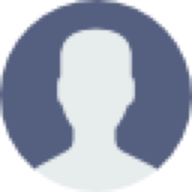
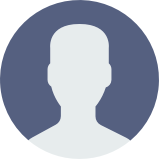
Added content for More Screen. Added LogOut method for user.

diff --git a/src/containers/more/MoreScreenContainer.js b/src/containers/more/MoreScreenContainer.js
@@ -1,15 +1,17 @@
 import React, { Component } from 'react';
-import { View, Text } from 'react-native';
+import { View, Text, ScrollView, Image } from 'react-native';
 import PropTypes from 'prop-types';
 import { connect } from 'react-redux';
-import _ from 'lodash';
+import { goToAuthScreen } from 'root';
 
 import { authActions } from 'actions';
-import { authSelector } from 'selectors';
+import { userSelector } from 'selectors';
+import { Button } from 'components/tools';
 
-import MoreComponent from 'components/more/MoreComponent';
-import { NAVIGATION_STYLES_MAIN } from 'constants/UIStyles';
-import { MORE_SCREEN_TITLE } from 'constants/texts';
+import { NAVIGATION_STYLES_MAIN, TextStyle } from 'constants/UIStyles';
+import { LOG_OUT_BUTTON } from 'constants/commons';
+
+import Styles from './styles';
 
 class MoreScreenContainer extends Component {
 
@@ -18,18 +20,42 @@ class MoreScreenContainer extends Component {
 
     this.state = {
     };
-  }
 
-  componentWillMount() {
-    // this.props.dispatch(authActions.getAreas());
+    this.logOutUser = this.logOutUser.bind(this);
   }
 
   render() {
+    const { user } = this.props;
     return (
-      <MoreComponent
-        screenTitle={MORE_SCREEN_TITLE}
-      />
+      <View style={{ flex: 1 }}>
+        <ScrollView contentContainerStyle={Styles.content}>
+          <View style={Styles.header}>
+            <Image
+              source={user.photo ? { uri: user.photo } : require('images/user.png')}
+              initWidth="120"
+              initHeight="120"
+              style={{ width: 120, height: 120, borderRadius: 120 / 2 }}
+            />
+          </View>
+          <View style={Styles.body}>
+            <Text style={TextStyle.title3}>{user.first_name} {user.last_name}</Text>
+            <Text style={TextStyle.headLine}>{user.email}</Text>
+            {user.chosenOffers && <Text style={TextStyle.body}>Chosen offers: {user.chosenOffers.length}</Text>}
+          </View>
+        </ScrollView>
+        <Button.CustomButton
+          button={LOG_OUT_BUTTON}
+          onPress={this.logOutUser}
+        />
+      </View>
     );
+  }
+
+  logOutUser() {
+    const { dispatch } = this.props;
+
+    goToAuthScreen();
+    dispatch(authActions.logout());
   }
 
 }
@@ -37,8 +63,9 @@ class MoreScreenContainer extends Component {
 MoreScreenContainer.propTypes = {
   dispatch: PropTypes.func.isRequired,
   navigator: PropTypes.object.isRequired,
+  user: PropTypes.object.isRequired
 };
 
 MoreScreenContainer.navigatorStyle = { ...NAVIGATION_STYLES_MAIN };
 
-export default connect(authSelector, dispatch => ({ dispatch }))(MoreScreenContainer);
+export default connect(userSelector, dispatch => ({ dispatch }))(MoreScreenContainer);

diff --git a/src/reducers/status/auth.js b/src/reducers/status/auth.js
@@ -1,7 +1,8 @@
 import * as Actions from 'constants/actions';
 
-// import { purgeStoredState } from 'redux-persist'
-// import { AsyncStorage } from 'react-native'
+import { purgeStoredState } from 'redux-persist';
+import { AsyncStorage } from 'react-native';
+import { persistRootConfig } from 'config/persist';
 
 const initialState = {
   isEntered: false,
@@ -21,6 +22,13 @@ export default function (state = initialState, action) {
 
     case Actions.LOGIN_USER_FAIL:
       return { ...state, isFetching: false, error: payload };
+
+    case Actions.LOGOUT:
+      purgeStoredState(persistRootConfig);
+
+      return {
+        ...initialState
+      };
 
     default:
       return state;

diff --git a/src/containers/more/styles.js b/src/containers/more/styles.js
@@ -1,0 +1,19 @@
+import { StyleSheet } from 'react-native';
+
+import { scale, verticalScale, moderateScale } from 'utils/scale';
+
+const Styles = StyleSheet.create({
+  content: {
+    paddingHorizontal: scale(15),
+    paddingBottom: verticalScale(15)
+  },
+  header: {
+    alignItems: 'center',
+    marginTop: verticalScale(20),
+  },
+  body: {
+    marginTop: verticalScale(20)
+  }
+});
+
+export default Styles;

diff --git a/src/root.js b/src/root.js
@@ -12,7 +12,7 @@ import registerScreens from './containers/index.js';
 
 export const store = configureStore();
 
-const goToAuthScreen = () => {
+export const goToAuthScreen = () => {
   Navigation.startSingleScreenApp({
     screen: {
       screen: 'LoginScreen',

diff --git a/src/constants/commons.js b/src/constants/commons.js
@@ -36,6 +36,12 @@ export const ADDED_BUTTON = {
   backgroundColor: COLORS.grey
 };
 
+export const LOG_OUT_BUTTON = {
+  title: 'Log out',
+  color: COLORS.white,
+  backgroundColor: COLORS.blue
+}
+
 export const LOCATION_BUTTONS = [
   {
     title: 'Apartment',

diff --git a/src/reducers/entities/user.js b/src/reducers/entities/user.js
@@ -25,6 +25,10 @@ export default function (state = initialState, action) {
         ...state,
         chosenOffers: payload.payload
       };
+    case Actions.LOGOUT:
+      return {
+        ...initialState
+      }
     default:
       return state;
   }

diff --git a/src/constants/actions.js b/src/constants/actions.js
@@ -11,6 +11,8 @@ export const LOGOUT_USER_START = 'LOGOUT_USER_START';
 export const LOGOUT_USER_FAIL = 'LOGOUT_USER_FAIL';
 export const LOGOUT_USER_SUCCESS = 'LOGOUT_USER_SUCCESS';
 
+export const LOGOUT = 'LOGOUT';
+
 /**
  * Offers
  */

diff --git a/src/containers/auth/LoginScreenContainer.js b/src/containers/auth/LoginScreenContainer.js
@@ -19,7 +19,7 @@ class LoginScreenContainer extends Component {
 
     this.state = {
       isFetching: false,
-      errorMessage: ''
+      errorMessage: null
     };
 
     this.loginToApp = this.loginToApp.bind(this);

diff --git a/src/constants/UIStyles.js b/src/constants/UIStyles.js
@@ -49,7 +49,7 @@ export const TextStyle = StyleSheet.create({
   title3: {
     fontSize: 22,
     fontWeight: 'bold',
-    color: TextColors.title3
+    color: TextColors.grey2
   },
   title4: {
     fontSize: 20,

diff --git a/src/selectors/index.js b/src/selectors/index.js
@@ -2,3 +2,4 @@ export * from './authScreenSelectors';
 export * from './listDataScreenSelectors';
 export * from './searchScreenSelectors';
 export * from './offerScreenSelector';
+export * from './userSelector';

diff --git a/src/actions/auth/index.js b/src/actions/auth/index.js
@@ -14,3 +14,9 @@ export const login = (values) => async (dispatch) => {
     console.log(error);
   }
 };
+
+export function logout() {
+  return (dispatch) => {
+    dispatch({ type: Actions.LOGOUT });
+  }
+}

diff --git a/src/selectors/userSelector.js b/src/selectors/userSelector.js
@@ -1,0 +1,8 @@
+import { createSelector } from 'reselect';
+
+export const userSelector = createSelector(
+  state => state.entities.user,
+  user => ({
+    user
+  })
+);
